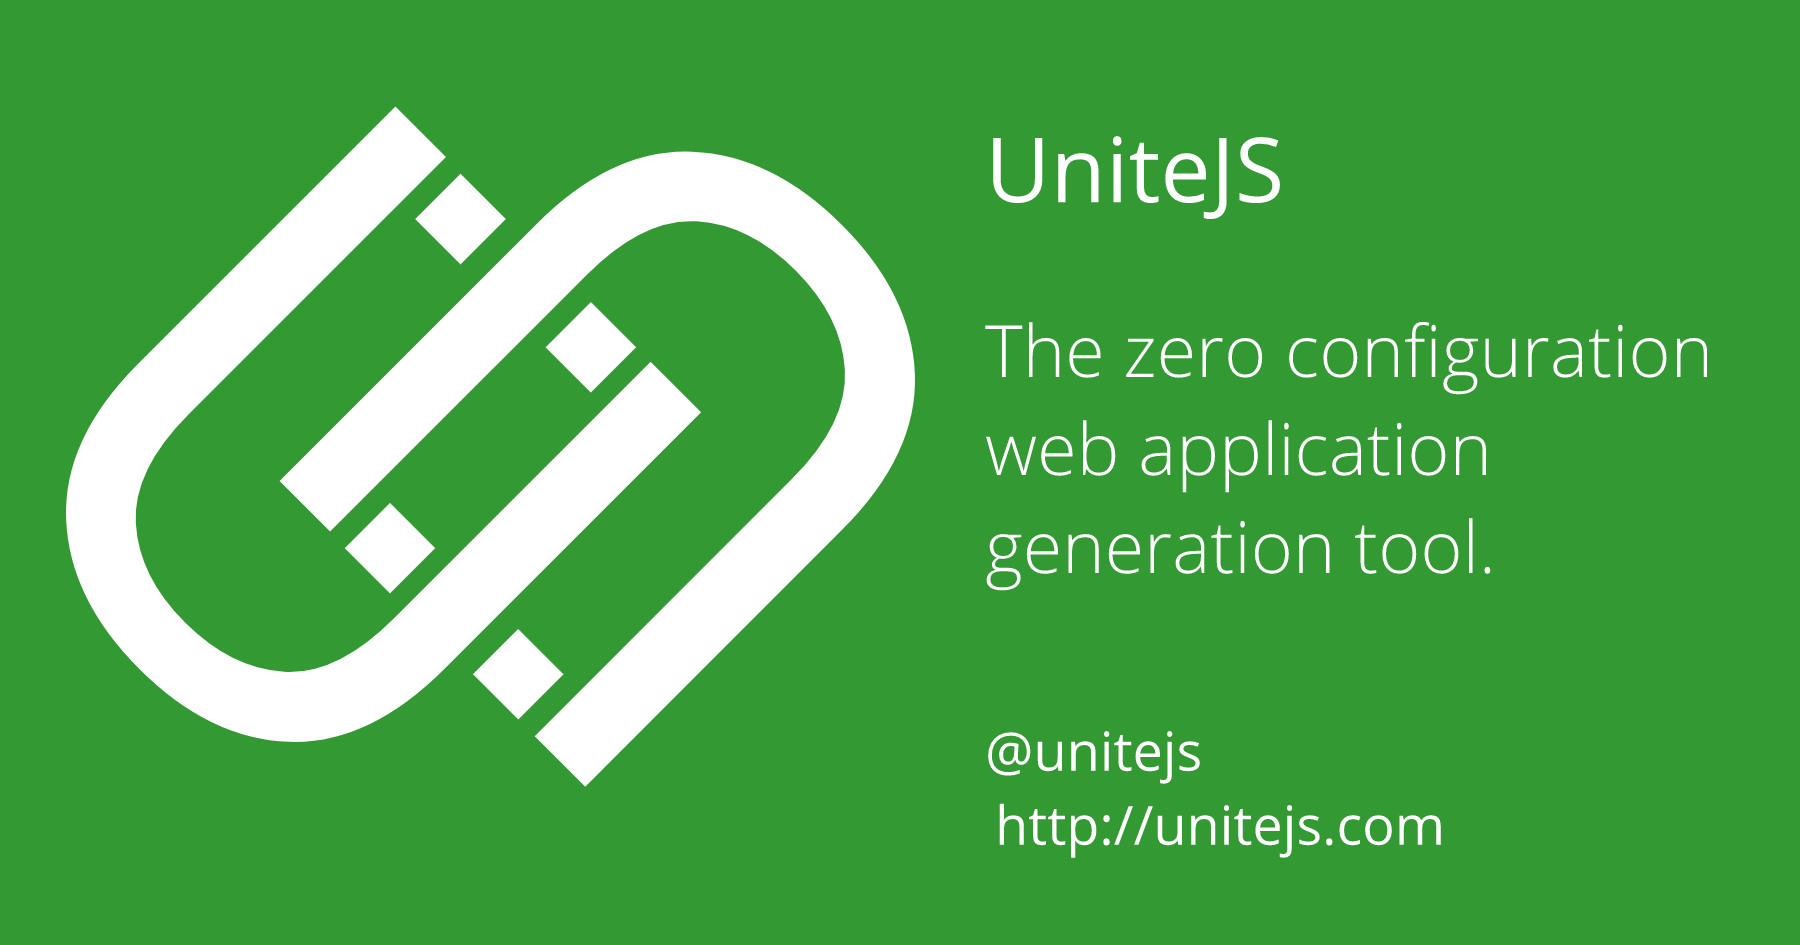
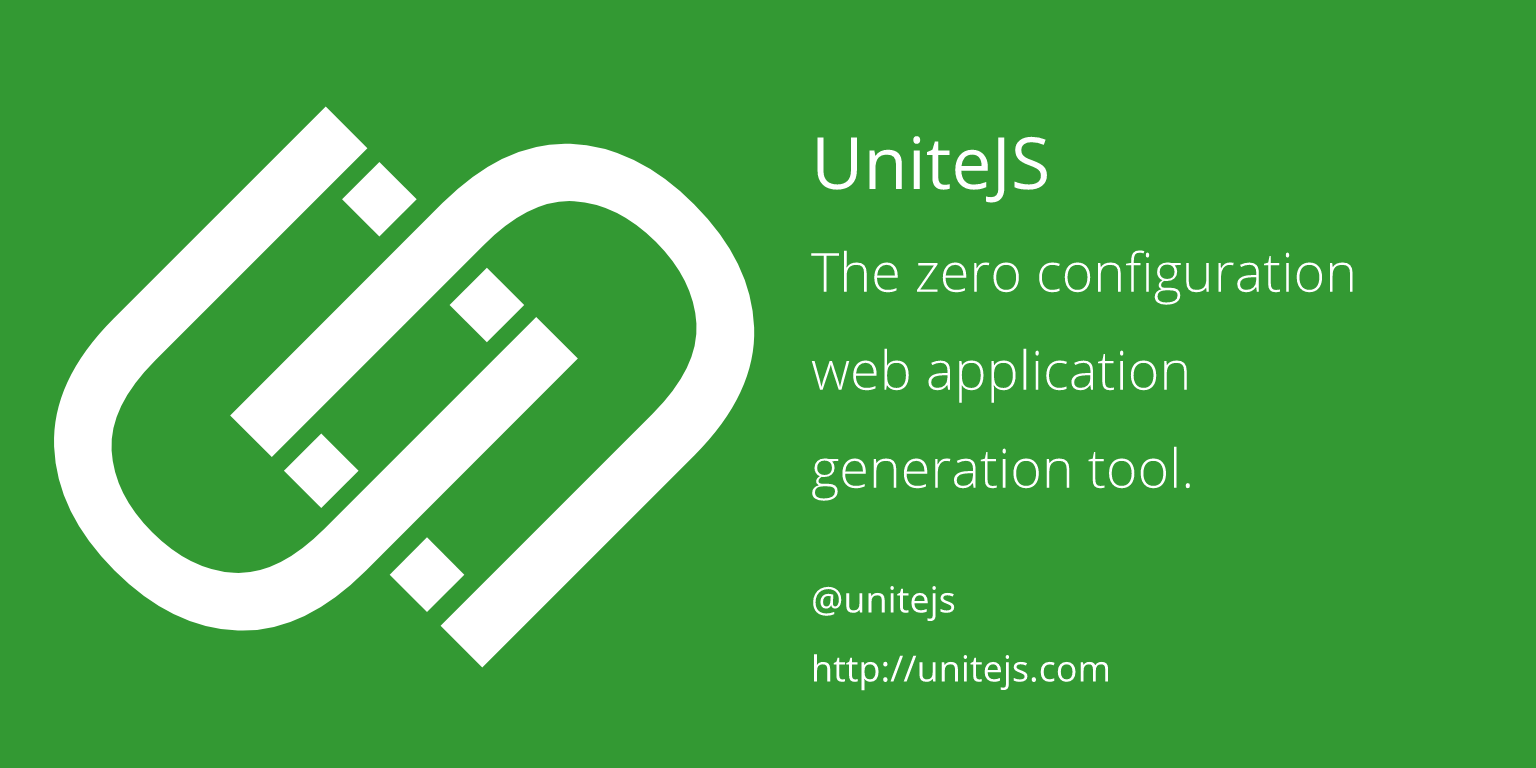
Update media images

diff --git a/index.html b/index.html
@@ -1,4 +1,4 @@
-<!doctype html><html lang="en"><head><meta charset="utf-8"><meta name="viewport" content="width=device-width,initial-scale=1,shrink-to-fit=no"><title>UniteJS</title><link rel="stylesheet" href="./css/style.css?v=1505285388404"><meta name="description" content="UniteJS - The zero configuration web application generation tool"><meta name="keywords" content="unite,unitejs,javascript,typescript,babel,browserify,webpack,requirejs,systemjs,karma,mocha,jasmine,chai,eslint,tslint,spdx,css,sass,less,stylus,postcss,protractor,webdriverio,selenium,aurelia,react,web,electron,scaffolding,boilerplate,zero,configuration"><meta name="author" content="Martyn Janes"><meta name="theme-color" content="#339933"><link rel="apple-touch-icon" sizes="180x180" href="./assets/favicon/apple-touch-icon.png"><link rel="icon" type="image/png" sizes="32x32" href="./assets/favicon/favicon-32x32.png"><link rel="icon" type="image/png" sizes="16x16" href="./assets/favicon/favicon-16x16.png"><link rel="manifest" href="./assets/favicon/manifest.json"><link rel="mask-icon" href="./assets/favicon/safari-pinned-tab.svg" color="#339933"><link rel="shortcut icon" href="./assets/favicon/favicon.ico"><meta name="msapplication-config" content="./assets/favicon/browserconfig.xml"><meta property="og:url" content="http://unitejs.com"><meta property="og:site_name" content="UniteJS"><meta property="og:title" content="UniteJS"><meta property="og:description" content="The zero configuration web application generation tool."><meta property="og:image" content="http://unitejs.com/assets/media/banner.png"><meta property="og:image:width" content="1800"><meta property="og:image:height" content="945"><meta name="twitter:card" value="summary"><meta name="twitter:site" content="@unitejs"><meta name="twitter:title" content="UniteJS"><meta name="twitter:description" content="The zero configuration web application generation tool."><meta name="twitter:creator" content="@unitejs"><meta name="twitter:image" content="http://unitejs.com/assets/media/logo-with-background.png"><meta name="twitter:url" content="http://unitejs.com"><script src="./node_modules/bluebird/js/browser/bluebird.min.js"></script><script src="./node_modules/requirejs/require.js"></script></head><body><div id="root"><div class="loading"><i class="fa fa-circle-o-notch fa-spin fa-5x fa-fw"></i></div></div><script src="./dist/vendor-bundle.js?v=1505285388404"></script><script>window.unite = {"config":{},"configName":"prod","packageVersion":"1.0.1","uniteVersion":"1.0.1"};</script><script src="./dist/app-bundle.js?v=1505285388404"></script><script async src="https://www.googletagmanager.com/gtag/js?id=UA-106048607-1"></script><script>window.dataLayer = window.dataLayer || [];
+<!doctype html><html lang="en"><head><meta charset="utf-8"><meta name="viewport" content="width=device-width,initial-scale=1,shrink-to-fit=no"><title>UniteJS</title><link rel="stylesheet" href="./css/style.css?v=1505286734621"><meta name="description" content="UniteJS - The zero configuration web application generation tool"><meta name="keywords" content="unite,unitejs,javascript,typescript,babel,browserify,webpack,requirejs,systemjs,karma,mocha,jasmine,chai,eslint,tslint,spdx,css,sass,less,stylus,postcss,protractor,webdriverio,selenium,aurelia,react,web,electron,scaffolding,boilerplate,zero,configuration"><meta name="author" content="Martyn Janes"><meta name="theme-color" content="#339933"><link rel="apple-touch-icon" sizes="180x180" href="./assets/favicon/apple-touch-icon.png"><link rel="icon" type="image/png" sizes="32x32" href="./assets/favicon/favicon-32x32.png"><link rel="icon" type="image/png" sizes="16x16" href="./assets/favicon/favicon-16x16.png"><link rel="manifest" href="./assets/favicon/manifest.json"><link rel="mask-icon" href="./assets/favicon/safari-pinned-tab.svg" color="#339933"><link rel="shortcut icon" href="./assets/favicon/favicon.ico"><meta name="msapplication-config" content="./assets/favicon/browserconfig.xml"><meta property="og:url" content="http://unitejs.com"><meta property="og:site_name" content="UniteJS"><meta property="og:title" content="UniteJS"><meta property="og:description" content="The zero configuration web application generation tool."><meta property="og:image" content="http://unitejs.com/assets/media/banner.png"><meta property="og:image:width" content="1024"><meta property="og:image:height" content="512"><meta name="twitter:card" value="summary"><meta name="twitter:site" content="@unitejs"><meta name="twitter:title" content="UniteJS"><meta name="twitter:description" content="The zero configuration web application generation tool."><meta name="twitter:creator" content="@unitejs"><meta name="twitter:image" content="http://unitejs.com/assets/media/logo-with-background.png"><meta name="twitter:url" content="http://unitejs.com"><script src="./node_modules/bluebird/js/browser/bluebird.min.js"></script><script src="./node_modules/requirejs/require.js"></script></head><body><div id="root"><div class="loading"><i class="fa fa-circle-o-notch fa-spin fa-5x fa-fw"></i></div></div><script src="./dist/vendor-bundle.js?v=1505286734621"></script><script>window.unite = {"config":{},"configName":"prod","packageVersion":"1.0.1","uniteVersion":"1.0.1"};</script><script src="./dist/app-bundle.js?v=1505286734621"></script><script async src="https://www.googletagmanager.com/gtag/js?id=UA-106048607-1"></script><script>window.dataLayer = window.dataLayer || [];
         function gtag(){dataLayer.push(arguments)};
         gtag('js', new Date());
         gtag('config', 'UA-106048607-1');</script></body></html>
